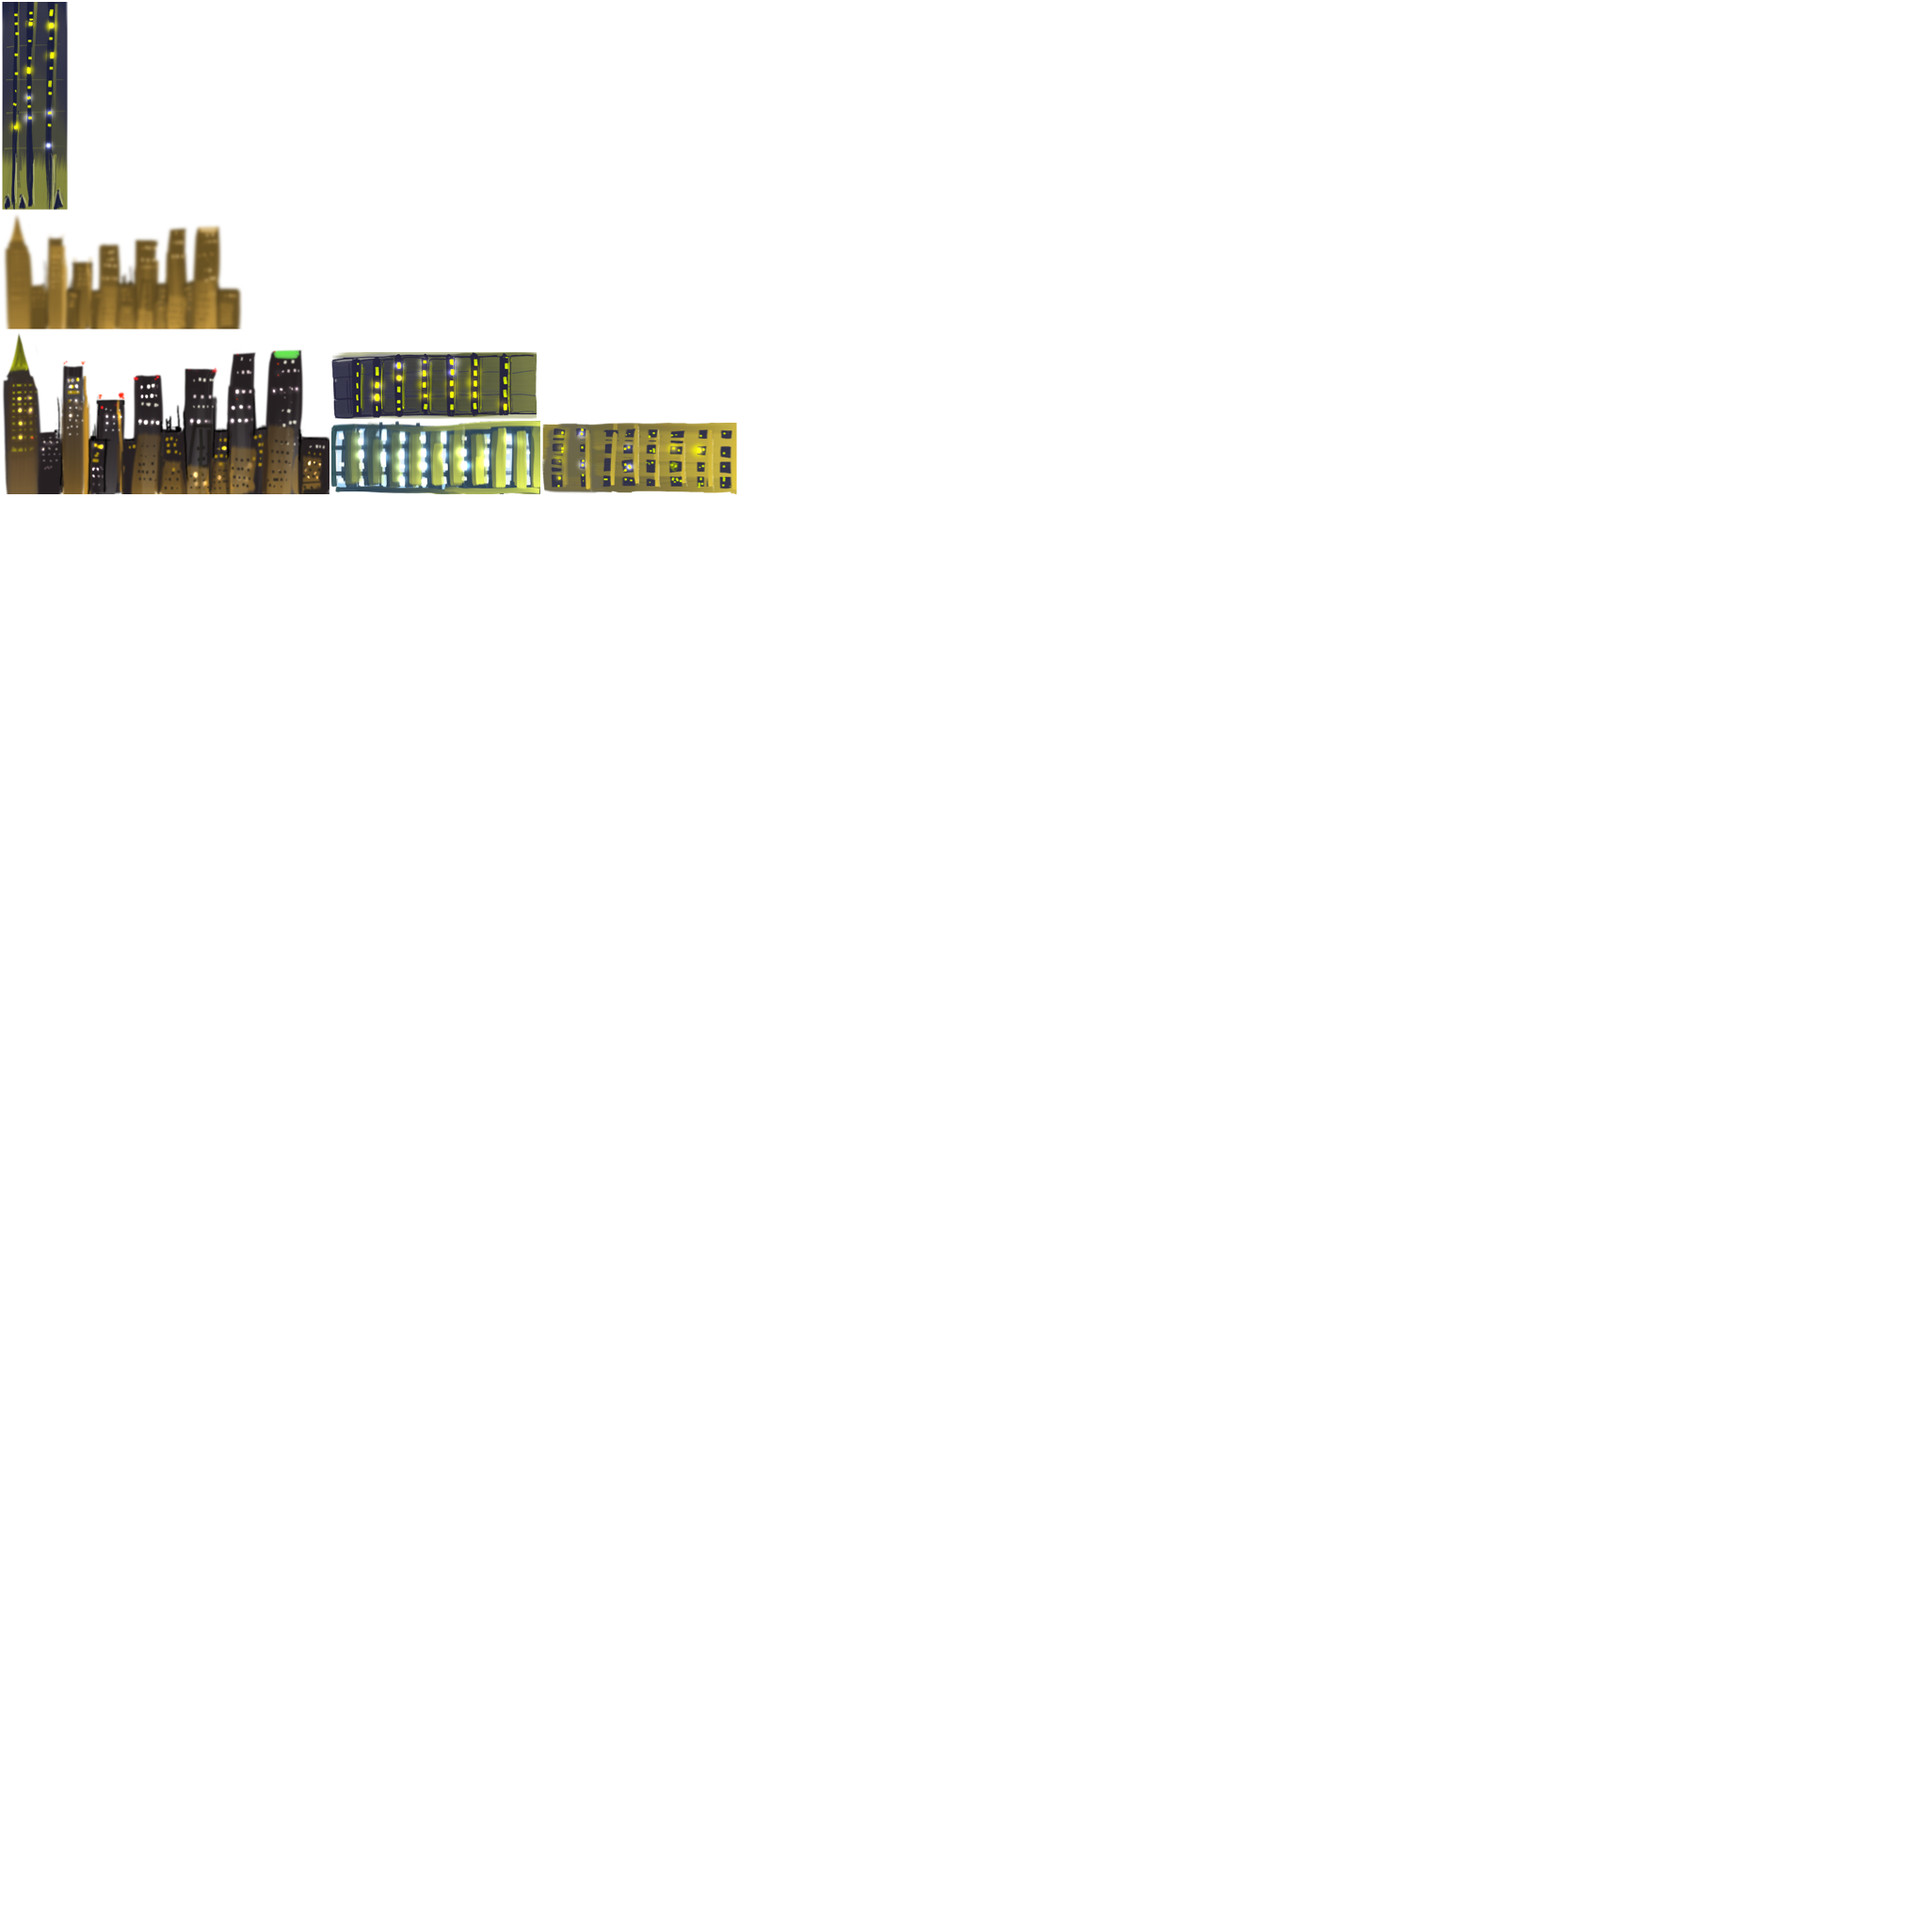
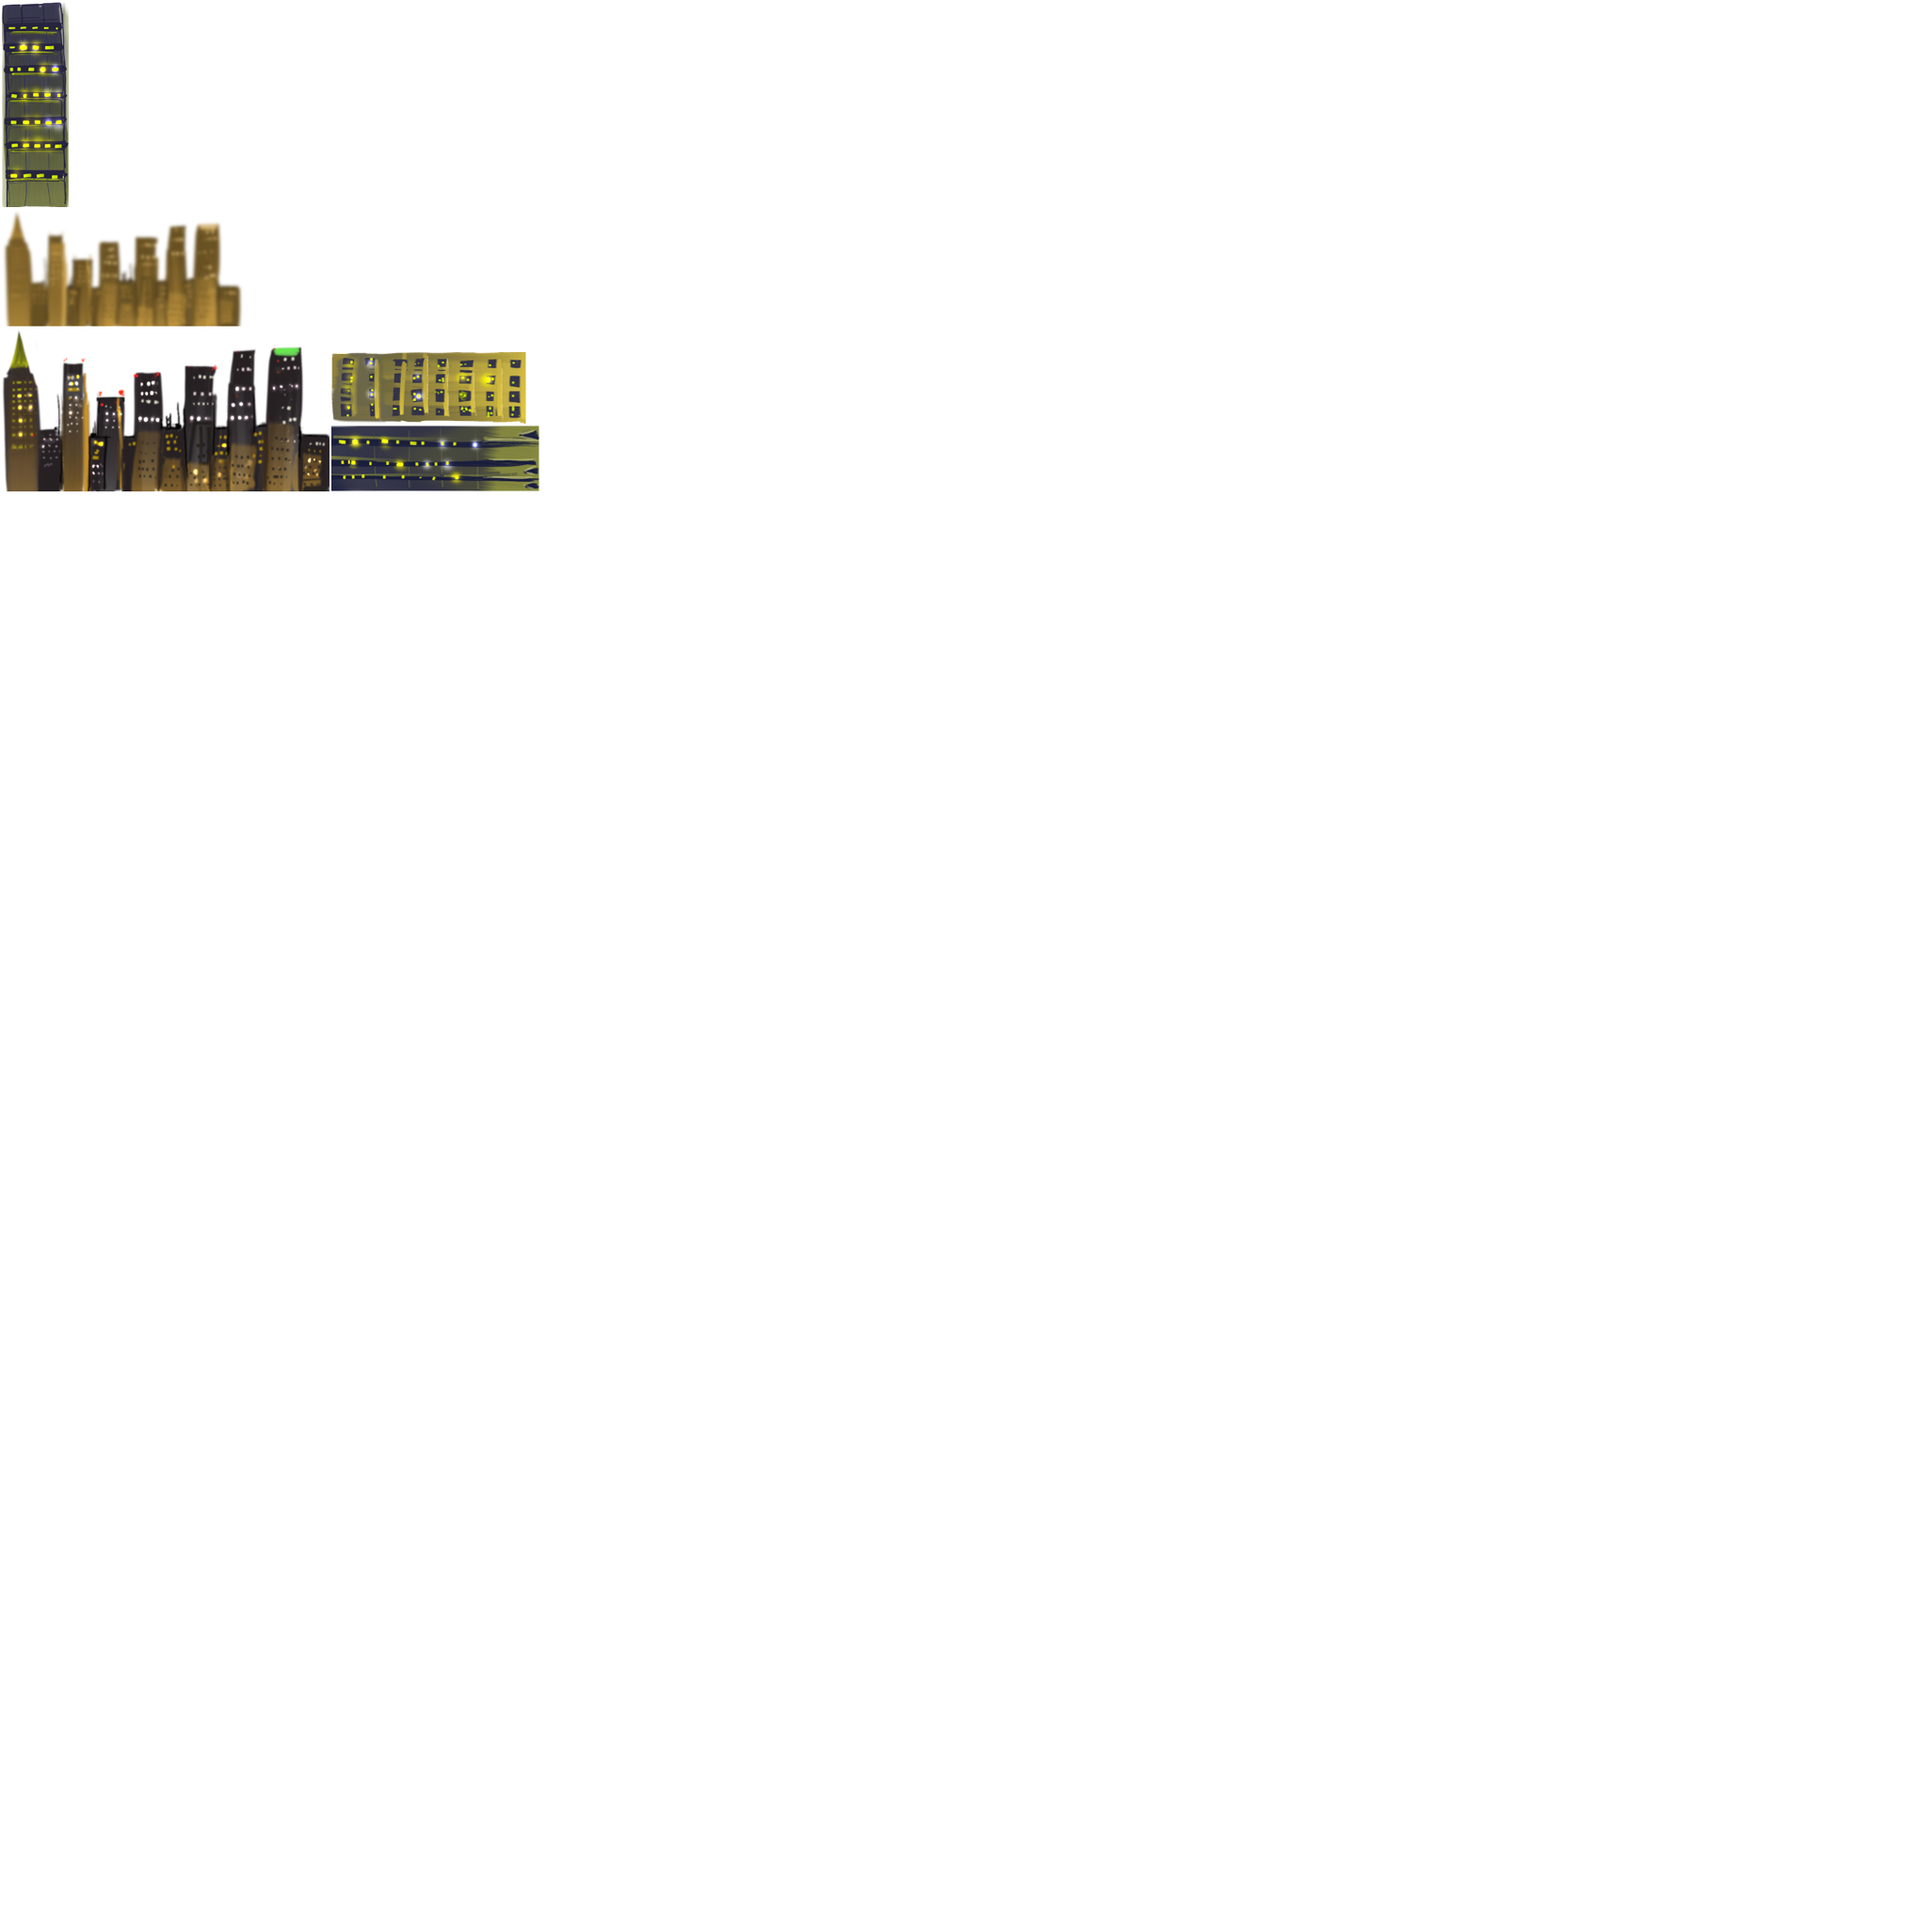
fix up background rendering

Changed region(s): [[0.0, 0.1562, 0.4062, 0.2812], [0.0, 0.0, 0.0312, 0.125], [0.0312, 0.125, 0.0938, 0.1562]]

diff --git a/rocketeer-src/rocketeer_main.c b/rocketeer-src/rocketeer_main.c
@@ -153,7 +153,7 @@ static AnimationStateData* stateData;
 static AnimationState* state;
 static float verticeBuffer[8];
 static float uvBuffer[8];
-static float bgsScroll[3] = { 0.0, 0.0, 0.0 };
+static float bgsScroll[9] = { 0.0, 0.0, 0.0, 0.0, 0.0, 0.0, 0.0, 0.0, 0.0 };
 
 
 int impl_draw() {
@@ -227,18 +227,6 @@ int impl_draw() {
     qwqz_batch_render(qwqz_engine, &qwqz_engine->m_Batches[2]);
   }
 
-  if (doPhysics) {
-    cpSpaceStep(space, qwqz_engine->m_Timers[0].step);
-
-    // Draw the renderer contents and reset it back to the last tick's state.
-    ChipmunkDebugDrawClearRenderer();
-    ChipmunkDebugDrawPushRenderer();
-
-    ChipmunkDemoDefaultDrawImpl(space);
-
-    ChipmunkDebugDrawFlushRenderer();
-    ChipmunkDebugDrawPopRenderer();
-  }
 
   if (doSpine) {
     if (1) {
@@ -251,30 +239,41 @@ int impl_draw() {
       AnimationState_apply(bgsState, bgsSkeleton);
       Skeleton_updateWorldTransform(bgsSkeleton);
 
-      for (int a=0; a<3; a++) {
-        float bgw = 280.0 * 3.0;
-        float spd = 1.0 + (float)a;
+/*
+far-2
+far-1
+far-0
+mid-2
+mid-1
+mid-0
+close-2
+close-1
+close-0
+*/
 
-        bgsScroll[a] += -20.0 * qwqz_engine->m_Timers[0].step * spd;
+      for (int a=0; a<9; a++) {
+        float bgw = 0.0;
+        float spd_m = 1.0 + (float)(a / 3);
+        float spd_x = 24.0;
+        float total_w = 1024.0;
 
-        if (bgsScroll[a] < -bgw) {
-          bgsScroll[a] = 0.0;
+        bgsScroll[a] += -spd_x * qwqz_engine->m_Timers[0].step * spd_m;
+
+        if (bgsScroll[a] < -(total_w)) {
+          bgsScroll[a] = total_w * 2;
         }
 
-        float scx = -(bgw / 2) + bgsScroll[a];
-        for (int i=0; i<3; i++) {
-          for (int j=0; j<3; j++) {
-            int c = (a * 3) + j;
-            Slot *s = bgsSkeleton->drawOrder[c];
-            RegionAttachment *ra = (RegionAttachment *)s->attachment;
-            if (s->attachment->type == ATTACHMENT_REGION) {
-              RegionAttachment_computeWorldVertices(ra, scx, 0.0, s->bone, verticeBuffer);
-              qwqz_batch_add(&qwqz_engine->m_Batches[0], 0, verticeBuffer, NULL, ra->uvs);
-            }
-          }
-          scx += bgw;
+        int c = a;
+        Slot *s = bgsSkeleton->drawOrder[c];
+        //LOGV("%s %f\n", s->data->name, bgsScroll[a]);
+        RegionAttachment *ra = (RegionAttachment *)s->attachment;
+        if (s->attachment->type == ATTACHMENT_REGION) {
+          RegionAttachment_computeWorldVertices(ra, bgsScroll[a], 0.0, s->bone, verticeBuffer);
+          qwqz_batch_add(&qwqz_engine->m_Batches[0], 0, verticeBuffer, NULL, ra->uvs);
         }
       }
+
+      //LOGV("end\n");
 
       glUseProgram(qwqz_engine->m_Linkages[0].m_Program);
       glUniform2f(qwqz_engine->m_Linkages[0].g_ResolutionUniform, qwqz_engine->m_ScreenWidth, qwqz_engine->m_ScreenHeight);
@@ -284,14 +283,14 @@ int impl_draw() {
 
       translate(&qwqz_engine->m_Linkages[0], NULL, 0, 0, 0);
 
-  {
-  qwqz_batch_prepare(qwqz_engine, &qwqz_engine->m_Batches[0]);
-  size_t size_of_sprite = sizeof(struct qwqz_sprite_t);
-  glVertexAttribPointer(qwqz_engine->m_Linkages[0].g_PositionAttribute, 2, GL_SHORT, GL_FALSE, size_of_sprite, (char *)NULL + (0));
-  glEnableVertexAttribArray(qwqz_engine->m_Linkages[0].g_PositionAttribute);
-  glVertexAttribPointer(qwqz_engine->m_Linkages[0].g_TextureAttribute, 2, GL_FLOAT, GL_FALSE, size_of_sprite, (char *)NULL + (2 * sizeof(GLshort)));
-  glEnableVertexAttribArray(qwqz_engine->m_Linkages[0].g_TextureAttribute);
-  }
+      {
+      qwqz_batch_prepare(qwqz_engine, &qwqz_engine->m_Batches[0]);
+      size_t size_of_sprite = sizeof(struct qwqz_sprite_t);
+      glVertexAttribPointer(qwqz_engine->m_Linkages[0].g_PositionAttribute, 2, GL_SHORT, GL_FALSE, size_of_sprite, (char *)NULL + (0));
+      glEnableVertexAttribArray(qwqz_engine->m_Linkages[0].g_PositionAttribute);
+      glVertexAttribPointer(qwqz_engine->m_Linkages[0].g_TextureAttribute, 2, GL_FLOAT, GL_FALSE, size_of_sprite, (char *)NULL + (2 * sizeof(GLshort)));
+      glEnableVertexAttribArray(qwqz_engine->m_Linkages[0].g_TextureAttribute);
+      }
 
       qwqz_batch_render(qwqz_engine, &qwqz_engine->m_Batches[0]);
     }
@@ -323,17 +322,30 @@ int impl_draw() {
 
       translate(&qwqz_engine->m_Linkages[0], NULL, 0, 0, 0);
 
-  {
-  qwqz_batch_prepare(qwqz_engine, &qwqz_engine->m_Batches[0]);
-  size_t size_of_sprite = sizeof(struct qwqz_sprite_t);
-  glVertexAttribPointer(qwqz_engine->m_Linkages[0].g_PositionAttribute, 2, GL_SHORT, GL_FALSE, size_of_sprite, (char *)NULL + (0));
-  glEnableVertexAttribArray(qwqz_engine->m_Linkages[0].g_PositionAttribute);
-  glVertexAttribPointer(qwqz_engine->m_Linkages[0].g_TextureAttribute, 2, GL_FLOAT, GL_FALSE, size_of_sprite, (char *)NULL + (2 * sizeof(GLshort)));
-  glEnableVertexAttribArray(qwqz_engine->m_Linkages[0].g_TextureAttribute);
-  }
+      {
+      qwqz_batch_prepare(qwqz_engine, &qwqz_engine->m_Batches[0]);
+      size_t size_of_sprite = sizeof(struct qwqz_sprite_t);
+      glVertexAttribPointer(qwqz_engine->m_Linkages[0].g_PositionAttribute, 2, GL_SHORT, GL_FALSE, size_of_sprite, (char *)NULL + (0));
+      glEnableVertexAttribArray(qwqz_engine->m_Linkages[0].g_PositionAttribute);
+      glVertexAttribPointer(qwqz_engine->m_Linkages[0].g_TextureAttribute, 2, GL_FLOAT, GL_FALSE, size_of_sprite, (char *)NULL + (2 * sizeof(GLshort)));
+      glEnableVertexAttribArray(qwqz_engine->m_Linkages[0].g_TextureAttribute);
+      }
 
       qwqz_batch_render(qwqz_engine, &qwqz_engine->m_Batches[0]);
     }
+  }
+
+  if (doPhysics) {
+    cpSpaceStep(space, qwqz_engine->m_Timers[0].step);
+
+    // Draw the renderer contents and reset it back to the last tick's state.
+    ChipmunkDebugDrawClearRenderer();
+    ChipmunkDebugDrawPushRenderer();
+
+    ChipmunkDemoDefaultDrawImpl(space);
+
+    ChipmunkDebugDrawFlushRenderer();
+    ChipmunkDebugDrawPopRenderer();
   }
 
   return 0;
@@ -449,6 +461,22 @@ int impl_main(int argc, char** argv) {
     }
 
     qwqz_batch_init(&qwqz_engine->m_Batches[0], &qwqz_engine->m_Linkages[0], (bgsSkeleton->slotCount * 3) + skeleton->slotCount);
+
+/*
+far-2
+far-1
+far-0
+mid-2
+mid-1
+mid-0
+close-2
+close-1
+close-0
+*/
+
+    for (int i=0; i<9; i++) {
+      bgsScroll[i] = (2 - (i % 3)) * 1024.0;
+    }
   }
 
   if (doShaderBg) {

diff --git a/src/contrib/chipmunk/ChipmunkDebugDraw.c b/src/contrib/chipmunk/ChipmunkDebugDraw.c
@@ -120,7 +120,7 @@ precision highp float;
 			// TODO: get rid of the GL 2.x matrix bit eventually?
 			//gl_Position = gl_ModelViewProjectionMatrix*vec4(vertex, 0.0, 1.0);
       vec4 p = ModelViewProjectionMatrix * vec4(vertex, 0.0, 1.0);
-      p.y -= 0.5;
+      p.y -= 1.0;
 			gl_Position = p;
 			
 			v_fill_color = fill_color;

diff --git a/platforms/osx/main.m b/platforms/osx/main.m
@@ -12,8 +12,8 @@
 #include "libqwqz.h"
 #include "impl_main.h"
 
-static int kWindowWidth = 600;
-static int kWindowHeight = 600;
+static int kWindowWidth = 512;
+static int kWindowHeight = 512;
 static bool left_down = false;
 static bool right_down = false;
 static bool reset_down = false;
